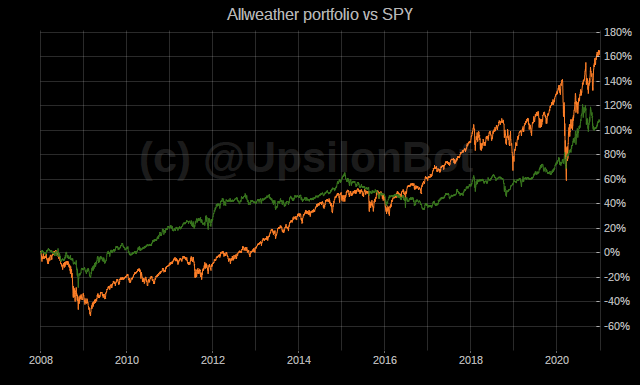
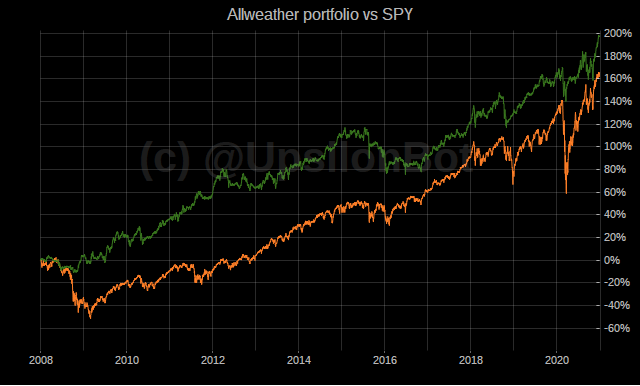
autoupdate 2021-01-06-23:07:54

Changed region(s): [[0.0625, 0.0622, 1.0, 0.8083], [0.0625, 0.8394, 1.0, 0.8705]]

diff --git a/quotes/portfolios/rp_portfolio.py b/quotes/portfolios/rp_portfolio.py
@@ -210,7 +210,7 @@ class RiskParityAllocator:
                 # Z-Score
                 zs_1 = (mom_1 - mom_1.rolling(window - p2).mean()) / mom_1.rolling(window - p2).std()
                 zs_2 = (mom_2 - mom_2.rolling(window - p2).mean()) / mom_2.rolling(window - p2).std()
-                performance_df[col] = 0.5 * zs_1 + 0.5 * zs_2
+                performance_df[col] = 0.25 * zs_1 + 0.75 * zs_2
 
             elif self.selector_type == 3:
                 rets = df[col].pct_change()
@@ -220,6 +220,13 @@ class RiskParityAllocator:
                 mom_1 = rets.rolling(p1).apply(lambda x: np.dot(x, weights_1) / weights_1.sum())
                 # Z-Score
                 zs_1 = (mom_1 - mom_1.rolling(window - p2).mean()) / mom_1.rolling(window - p2).std()
+                performance_df[col] = zs_1
+
+            elif self.selector_type == 4:
+                rets = df[col].pct_change()
+                mom_1 = ((df[col].iloc[-1] - df[col].iloc[0]) / df[col].iloc[0])
+                # Z-Score
+                zs_1 = (mom_1 - rets.mean()) / rets.std()
                 performance_df[col] = zs_1
 
 

diff --git a/tester/tester.py b/tester/tester.py
@@ -108,7 +108,7 @@ def portfolio_tester(init_cap=10000, port_id='parking', allocator_data_interval=
         portfolio_args['cor_linkage_'] = 'ward'
         portfolio_args['cor_risk_measure_'] = 'variance'
         portfolio_args['cor_graphs_show'] = False
-        portfolio_args['cor_selector_type'] = 2
+        portfolio_args['cor_selector_type'] = 4
         portfolio_args['cor_selector_adjustment'] = False
         # ********************* Allweather sat *********************
         portfolio_args['sat_alloctor_start_date'] = alloctor_start_date
@@ -292,7 +292,7 @@ if __name__ == '__main__':
     q = mp.Queue()
     # p1 = mp.Process(target=portfolio_tester, args=(10000, 'parking', 3, 1, datetime.date(2008, 1, 1),))
     # p1.start()
-    p2 = mp.Process(target=portfolio_tester, args=(10000, 'allweather', 3, 12, datetime.date(2008, 1, 1),))
+    p2 = mp.Process(target=portfolio_tester, args=(10000, 'allweather', 3, 3, datetime.date(2008, 1, 1),))
     p2.start()
     # p3 = mp.Process(target=portfolio_tester, args=(10000, 'balanced', 3, 1, datetime.date(2008, 1, 1),))
     # p3.start()
